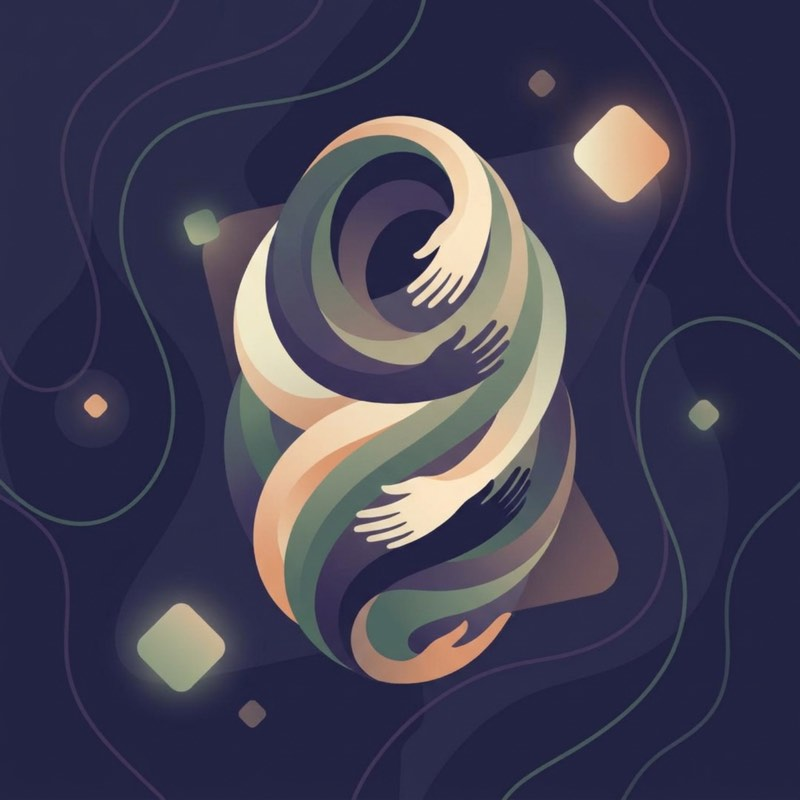
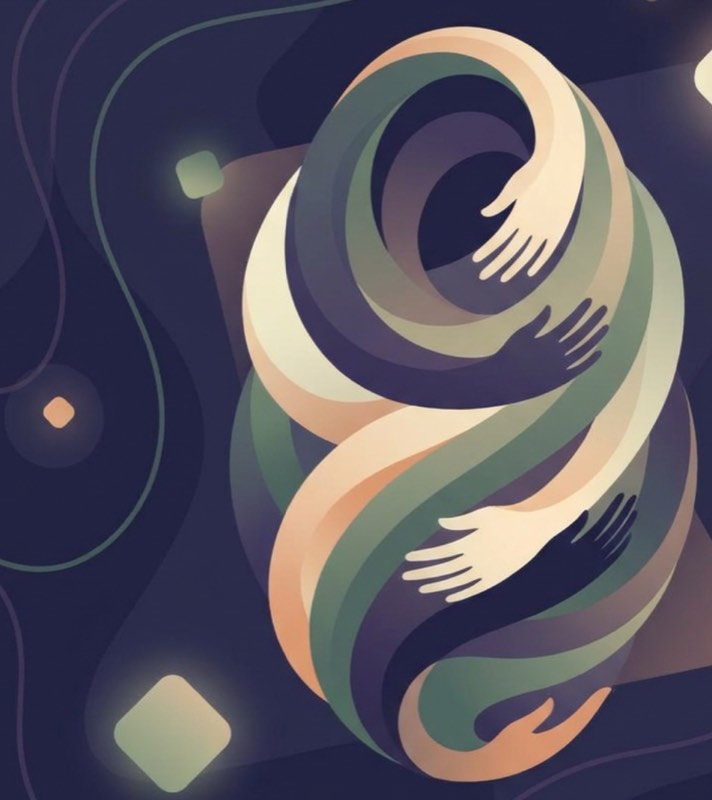
Use the pre-trimmed ongoing artwork, and pick the crop edge per card
The supplied trimmed source has the swirl's own right margin already
cut away, so the previous fix — anchoring object-left to trim that
margin ourselves — now works against it, cutting into the subject
instead. Anchoring right is correct for this image.

That is not a change the two cards can share, so imageAnchor is a
prop rather than a global. The right edge to keep depends on where
the subject sits in each source: the ongoing art is trimmed tight, so
its right edge is the one worth keeping; the attack-free art is a
full square with the moon left of centre, where keeping the left edge
is what carries the moon into the visible strip rather than burying
it under the gradient. Encoding a per-image judgement as one shared
constant is how the next artwork swap would quietly break one of them.

Trimmed source committed alongside the original and re-encoded to
712x800 JPEG q65 (1.3 MB -> 61 kB), same treatment as the others.

Both cards checked at 360px.

diff --git a/src/components/HomeCard.tsx b/src/components/HomeCard.tsx
@@ -3,6 +3,17 @@ import type { ReactNode } from 'react';
 interface Props {
   /** Decorative artwork, bled off the card's right edge. */
   image: string;
+  /**
+   * Which edge of the artwork to keep when `object-cover` crops it.
+   *
+   * Per-image, because it depends on where the subject sits in the source and
+   * how much dead margin surrounds it — there is no single right answer. The
+   * ongoing card's art is pre-trimmed tight to its subject, so its right edge
+   * is the one to keep; the attack-free art is a full square with the moon
+   * left of centre, so keeping its left edge is what carries the moon into
+   * the visible strip instead of burying it under the gradient.
+   */
+  imageAnchor: 'left' | 'right';
   /** Small label above the headline — "Attack-free for", "Ongoing attack". */
   label: string;
   /** The one thing the card exists to say, at a glance. */
@@ -38,7 +49,7 @@ interface Props {
  * their own background, so they read fine over the artwork where a line of
  * body text would not.
  */
-export function HomeCard({ image, label, headline, detail, onOpenDetail, children }: Props) {
+export function HomeCard({ image, imageAnchor, label, headline, detail, onOpenDetail, children }: Props) {
   const text = (
     <>
       {/* Deliberately uneven gaps, to spec: 4px under the label so it reads as
@@ -67,14 +78,14 @@ export function HomeCard({ image, label, headline, detail, onOpenDetail, childre
         // (the moon, the swirl) inside the visible part rather than centred
         // under the gradient's opaque end.
         //
-        // `object-left`, counter-intuitively, is what pushes the *subject*
-        // right. The source art is square and centred, and the box is wider
-        // than it is tall once cropped, so `object-cover` overflows it
-        // horizontally and something has to be trimmed. Anchoring right kept
-        // the artwork's own empty right-hand margin and left the swirl at ~67%
-        // of the card, with a dead strip beyond it. Anchoring left trims that
-        // margin off instead and carries the subject out to ~82%.
-        className="pointer-events-none absolute inset-y-0 right-0 -z-10 h-full w-1/2 object-cover object-left"
+        // `object-cover` always overflows this box horizontally, so one side
+        // of the source is trimmed either way — `imageAnchor` picks which.
+        // Note the counter-intuitive part: keeping the *left* edge is what
+        // pushes a centred subject *right*, because the trimming comes off the
+        // other side.
+        className={`pointer-events-none absolute inset-y-0 right-0 -z-10 h-full w-1/2 object-cover ${
+          imageAnchor === 'right' ? 'object-right' : 'object-left'
+        }`}
       />
       <div
         aria-hidden="true"

diff --git a/src/components/OngoingAttackBanner.tsx b/src/components/OngoingAttackBanner.tsx
@@ -23,6 +23,8 @@ export function OngoingAttackBanner({ attack, onAddUpdate, onEnd, onOpenDetail }
   return (
     <HomeCard
       image={cardImage}
+      // Pre-trimmed tight to the swirl, so its right edge is the one to keep.
+      imageAnchor="right"
       label="Ongoing attack"
       headline={`Started ${formatElapsed(start)}`}
       // The worst area's severity, stated plainly rather than colour-coded.

diff --git a/src/components/AttackFreeCard.tsx b/src/components/AttackFreeCard.tsx
@@ -17,6 +17,8 @@ export function AttackFreeCard({ lastEnd, onStart }: Props) {
   return (
     <HomeCard
       image={cardImage}
+      // Full square with the moon left of centre — keeping the left edge is what carries it into the visible strip.
+      imageAnchor="left"
       label="Attack-free for"
       headline={formatSinceLong(lastEnd)}
       detail={<>Since {formatDatetime(lastEnd)}</>}

diff --git a/CLAUDE.md b/CLAUDE.md
@@ -269,12 +269,12 @@ When no attack is ongoing, the Today tab shows `AttackFreeCard` (time since the 
 
 `AttackFreeCard` and `OngoingAttackBanner` are both thin wrappers over **`HomeCard`** — artwork bleeding off the right edge, text and buttons on the left, one gradient tying them together. Each is `label` / `headline` / `detail` plus action buttons, so the two read as the same object in two states rather than two different components.
 
-- **The artwork lives in `src/assets/` and is imported, not put in `public/`**, so Vite fingerprints it (`card-ongoing-7HkdvLEt.jpg`). A `public/` file keeps its name forever, and the service worker would happily serve a stale one after an art change. Sources are `ongoing attack card image.png` / `attack free card image.jpg` in the repo root; the shipped copies are re-encoded to 800px JPEG q65 (1.9 MB → 62 kB for the ongoing one), which is invisibly lossless on flat vector-style art and matters for an offline-first PWA that bundles everything.
+- **The artwork lives in `src/assets/` and is imported, not put in `public/`**, so Vite fingerprints it (`card-ongoing-7HkdvLEt.jpg`). A `public/` file keeps its name forever, and the service worker would happily serve a stale one after an art change. Sources are `ongoing attack card image trimmed.png` (the untrimmed `ongoing attack card image.png` is kept alongside it) / `attack free card image.jpg` in the repo root; the shipped copies are re-encoded to 800px JPEG q65 (1.9 MB → 62 kB for the ongoing one), which is invisibly lossless on flat vector-style art and matters for an offline-first PWA that bundles everything.
 - **The gradient is what makes the image a backdrop rather than a panel.** `bg-gradient-to-r` from the card's own `bg-bg-surface` to transparent, weighted left so the text side stays readable. Tune the stops, not the image: this app is read mid-migraine and contrast under the headline beats showing more picture.
 - **The gradient's opaque stop must sit *past* the image's left edge.** The image is a hard-edged box (`w-1/2`, right-aligned, so it starts at 50%); wherever the gradient has already begun fading at that edge, flat card colour meets artwork in a single step and a seam runs straight down the card. The opaque stop is 53% for exactly that reason — move the image and the stops move with it.
 - **Only the text block is width-limited (`max-w-[64%]`), not the content column.** The buttons need the full width to sit on one row, and being solid shapes they read fine over the artwork where body text would not. At the largest text scale they wrap to a second row and the card grows — that's the intended degradation, not a bug.
 - **The headline is `whitespace-nowrap` and overflows that limit on purpose.** "Started 24h 38m" broke onto two lines against the 64% width and pushed the card taller; the headline is the one line that has to land at a glance, and running it over the artwork costs nothing when the buttons already do. Checked at the `xl` text scale, where it stays on one line and still clears the card's right edge.
-- **The artwork is anchored `object-left`, which is what pushes the *subject* right.** The source art is square and centred, and `object-cover` overflows the box horizontally, so something gets trimmed either way. Anchoring right kept the art's own empty right margin — leaving the swirl at ~67% of the card with a dead strip beyond it — while anchoring left trims that margin and carries the subject out to ~82%.
+- **Which edge of the artwork survives the crop is per-card (`imageAnchor`), not a global choice.** `object-cover` always overflows the box horizontally, so one side is trimmed either way, and the right side to keep depends on where the subject sits in that particular source. The ongoing card's art is **pre-trimmed tight to the swirl** (`ongoing attack card image trimmed.png`), so `right` keeps the subject hard against the card edge; the attack-free art is a full square with the moon left of centre, so `left` is what carries the moon into the visible strip instead of burying it under the gradient. Counter-intuitive part worth remembering: keeping the *left* edge pushes a centred subject *right*, because the trim comes off the other side.
 - **Spacing is to a supplied spec, and the gaps are deliberately uneven:** 24px left/right and 32px top/bottom padding (`px-6 py-8`), then 4px under the label, 16px under the headline, 24px before the buttons. The label is a kicker attached to the headline, so it sits tight to it; the detail line is a separate fact, so it doesn't. A uniform stack left the label floating between the two. The action buttons are `rounded-xl` (12px at the default text size, and the radius used by ~36 other buttons in the app) rather than `rounded-full`.
 - **The image is `alt=""` + `aria-hidden`**: it carries mood, not information, and every fact on the card is in the text beside it.
 - **The ongoing card's route to `AttackDetail` is its text block**, via `HomeCard`'s optional `onOpenDetail`. The whole card was the tap target before, which stops working once buttons live inside it (and nesting a button in a button is invalid); a separate "Details" button was tried and dropped as clutter on a card whose job is to be glanceable.
